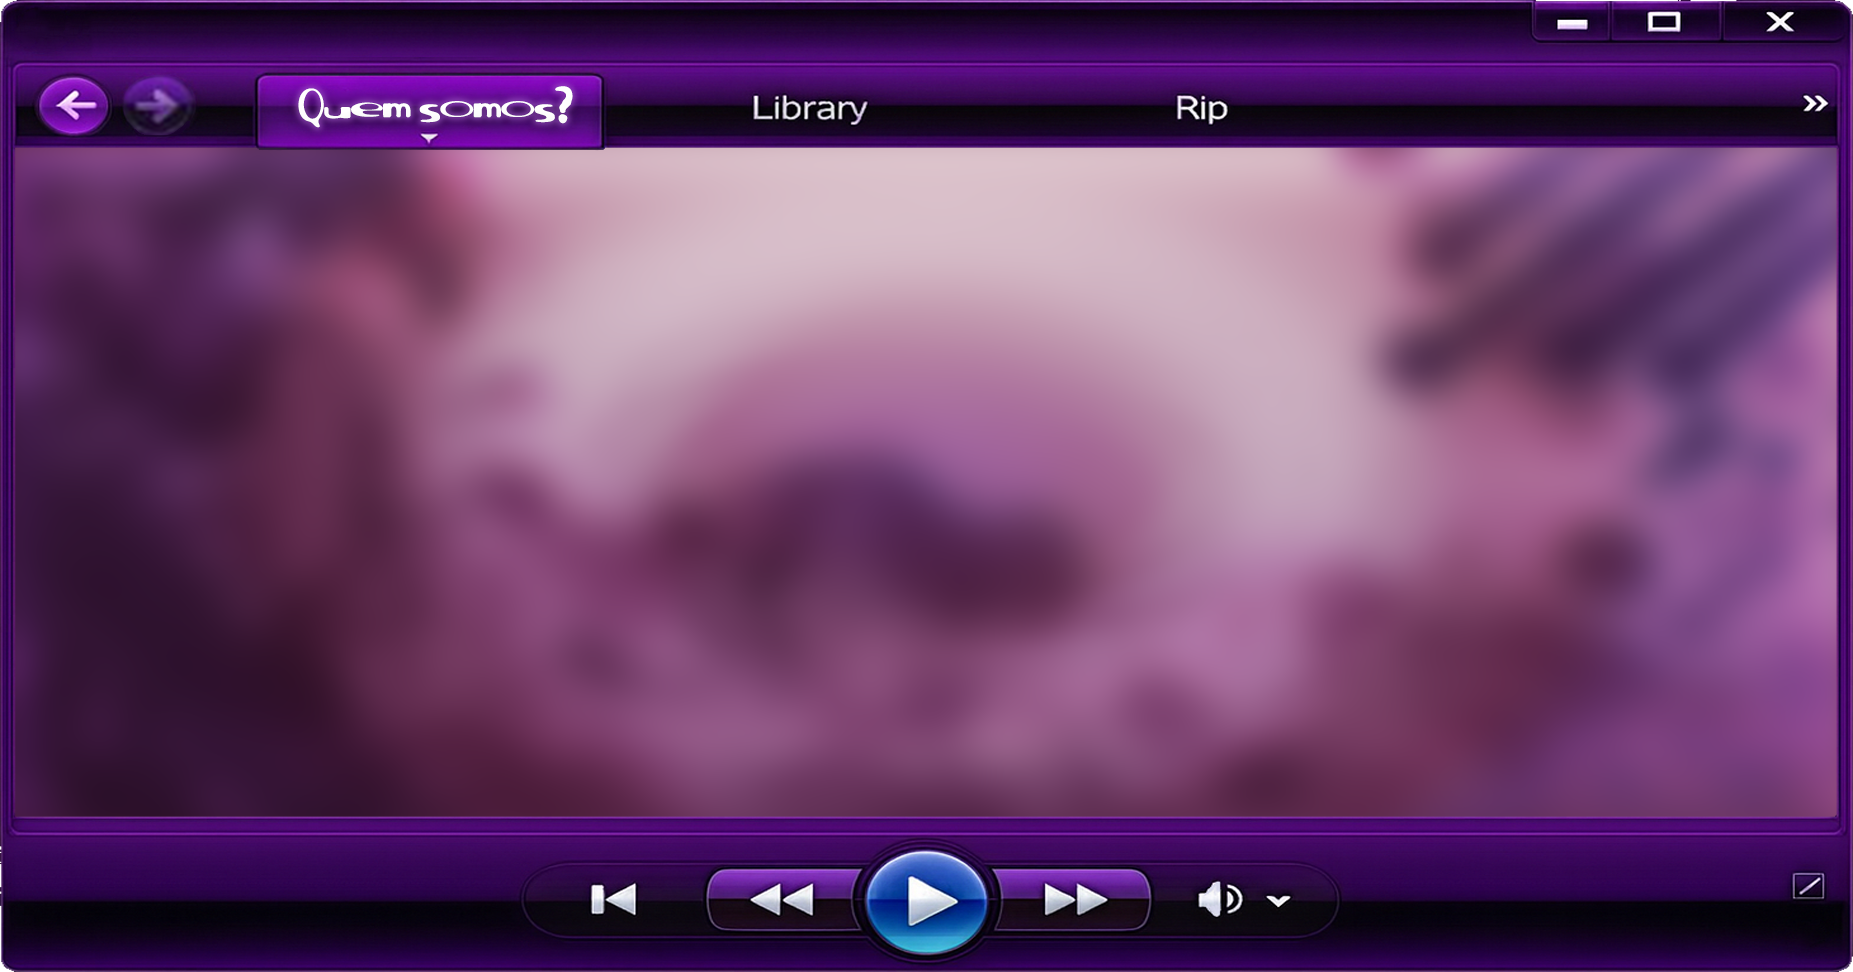
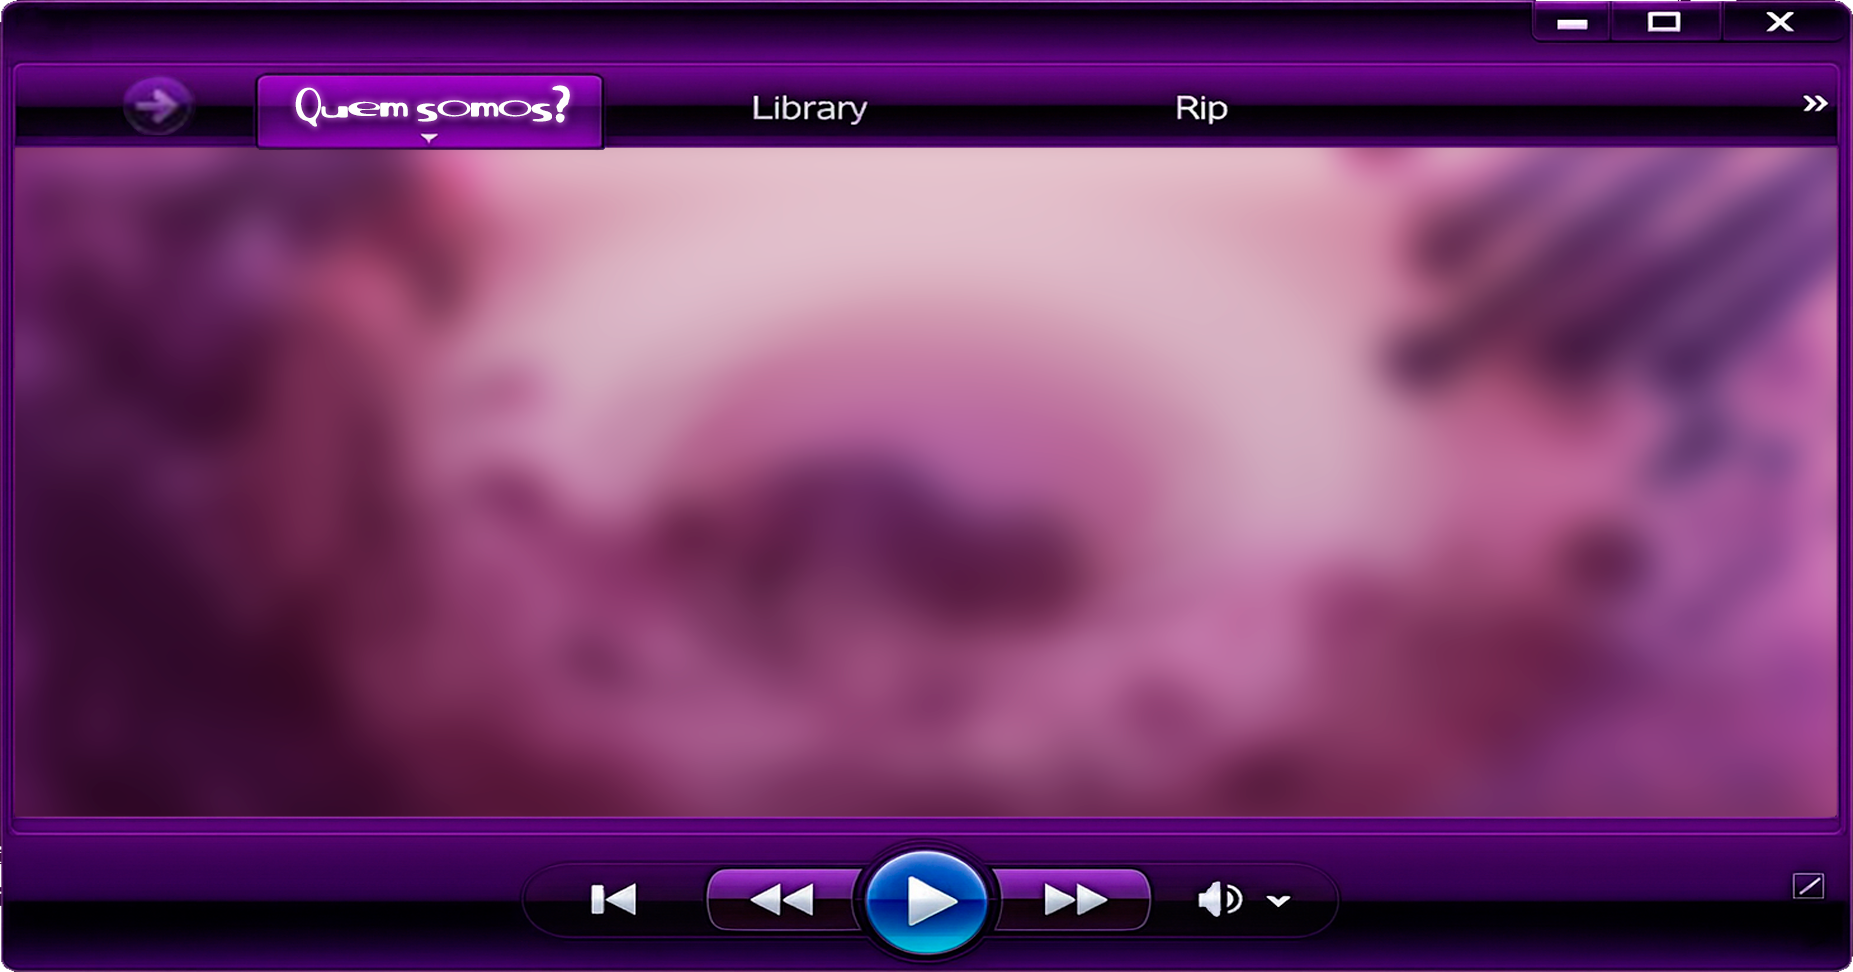
Ajustes no Quem_Somos + Transição com JS

diff --git a/_static/app/page-transition.js b/_static/app/page-transition.js
@@ -1,0 +1,69 @@
+// INICIALIZAÇÃO DO SCRIPT
+window.addEventListener("load", () => {
+  const transition = document.getElementById("page-transition");
+  if (!transition) return;
+
+  // VERIFICAÇÃO DE RECARREGAMENTO (SEM ANIMAÇÃO, MAS MANTÉM FUNCIONALIDADE)
+  const navEntries = performance.getEntriesByType("navigation");
+  const isReload = navEntries.length && navEntries[0].type === "reload";
+
+  if (isReload) {
+    transition.style.transition = "none";
+    transition.style.transform = "translateX(-100%)";
+  }
+
+  // MÓDULO DE ENTRADA (ANIMAÇÃO AO CARREGAR PÁGINA)
+  const direction = sessionStorage.getItem("transitionDirection");
+  sessionStorage.removeItem("transitionDirection");
+
+  if (!isReload) {
+    transition.style.transition = "none";
+
+    if (direction === "right") {
+      transition.style.transform = "translateX(0)";
+      transition.getBoundingClientRect();
+      requestAnimationFrame(() => {
+        transition.style.transition = "transform 0.8s ease-in-out";
+        transition.style.transform = "translateX(-100%)";
+      });
+    } else if (direction === "left") {
+      transition.style.transform = "translateX(0)";
+      transition.getBoundingClientRect();
+      requestAnimationFrame(() => {
+        transition.style.transition = "transform 0.8s ease-in-out";
+        transition.style.transform = "translateX(100%)";
+      });
+    } else {
+      transition.style.transform = "translateX(-100%)";
+    }
+  }
+
+  // FUNÇÃO CENTRAL DE TRANSIÇÃO ENTRE PÁGINAS
+  const handleTransition = (href, from) => {
+    sessionStorage.setItem("transitionDirection", from);
+    transition.style.transition = "none";
+    transition.style.transform = from === "left" ? "translateX(-100%)" : "translateX(100%)";
+    transition.getBoundingClientRect();
+    requestAnimationFrame(() => {
+      transition.style.transition = "transform 0.8s ease-in-out";
+      transition.style.transform = "translateX(0)";
+    });
+    transition.addEventListener("transitionend", () => window.location.href = href, { once: true });
+  };
+
+  // MÓDULO DE NAVEGAÇÃO (LINKS NORMAIS)
+  document.querySelectorAll("a[href]").forEach(link => {
+    link.addEventListener("click", e => {
+      e.preventDefault();
+      handleTransition(link.getAttribute("href"), "left");
+    });
+  });
+
+  // MÓDULO DE BOTÕES DE VOLTAR (TRANSIÇÃO REVERSA)
+  document.querySelectorAll(".btn-voltar").forEach(btn => {
+    btn.addEventListener("click", e => {
+      e.preventDefault();
+      handleTransition(`${window.location.origin}/index.html`, "right");
+    });
+  });
+});

diff --git a/_static/app/page-loader.js b/_static/app/page-loader.js
@@ -1,0 +1,56 @@
+// ==========================================
+// PAGE LOADER + SINCRONIZAÇÃO COM O BLUR
+// ==========================================
+
+window.addEventListener("DOMContentLoaded", () => {
+  const loader = document.getElementById("page-loading");
+  const transition = document.getElementById("page-transition");
+  if (!loader || !transition) return;
+
+  // Evita loader em reloads
+  const navEntries = performance.getEntriesByType("navigation");
+  const isReload = navEntries.length && navEntries[0].type === "reload";
+  if (isReload) {
+    loader.style.display = "none";
+    return;
+  }
+
+  // Adiciona o listener ao blur (quando ele termina de entrar)
+  transition.addEventListener("transitionend", () => {
+    // Somente se o blur estiver visível (ou seja, cobrindo a tela)
+    const computedStyle = window.getComputedStyle(transition);
+    if (computedStyle.transform.includes("matrix(1, 0, 0, 1, 0, 0)")) {
+      // blur 100% na tela → ativa o page loader
+      loader.classList.add("active");
+    }
+  });
+
+  // Quando a página termina de carregar → desativa loader
+  window.addEventListener("load", () => {
+    setTimeout(() => loader.classList.remove("active"), 200);
+  });
+
+  // Intercepta cliques
+  document.querySelectorAll("a[href], .btn-voltar").forEach(link => {
+    link.addEventListener("click", e => {
+      const href = link.getAttribute("href");
+      if (!href || href.startsWith("#")) return;
+
+      e.preventDefault();
+
+      // ativa o blur deslizante
+      transition.style.transition = "transform 0.8s ease-in-out";
+      transition.style.transform = "translateX(0)";
+
+      // o page loader vai entrar automaticamente após o transitionend
+      transition.addEventListener(
+        "transitionend",
+        () => {
+          // troca de página enquanto o blur e o loader estão ativos
+          setTimeout(() => (window.location.href = href), 500);
+        },
+        { once: true }
+      );
+    });
+  });
+});

diff --git a/_static/css/quem_somos.css b/_static/css/quem_somos.css
@@ -5,38 +5,60 @@ body {
 main {
     display: flex;
     justify-content: center;
+    align-items: center;
 }
 
 .media-player-wrapper {
+    position: relative;
     background-image: url('../assets/MediaPlayer_Layer.png');
-    background-size: cover;
-    width: 104vw;
-    height: 104vh;
-    transform: scale(0.89);
-}
-
-#mp-png {
-    width: 100%;
+    background-size: 100% 100%;
+    background-repeat: no-repeat;
+    background-size: contain;
+    background-position: center;
+    width: 92vw;
+    aspect-ratio: 1853 / 972;
     height: auto;
-    object-fit: contain;
-    display: block;
 }
 
-#btn-return {
+.btn-voltar {
     position: absolute;
-    top: 9.7%;
-    left: 1.8%;
-    width: 4.2vw;
+    top: calc(5% + 1.0vw);
+    left: calc(2% + 0.3vw);
+    width: 4%;
     aspect-ratio: 1 / 1;
     background: url('../assets/button-return2.png') center/contain no-repeat;
     border: none;
     background-color: transparent;
     cursor: pointer;
     transition: transform 0.3s ease, filter 0.3s ease;
-    z-index: 10;
+    
+    z-index: 30;
 }
 
-#btn-return:hover {
+.btn-voltar:hover {
     transform: scale(1.05);
     filter: brightness(1.3);
+}
+
+@media (max-width: 700px) {
+    body {
+        background: url('../assets/quem-somos-telamenor.jpg') center/cover no-repeat;
+    }
+
+    .media-player-wrapper {
+        background-image: url('../assets/MediaPlayer_Layer-telamenor.png');
+        position: relative;
+        width: 95vw;
+        aspect-ratio: 1059 / 1483;
+        height: 98vh;
+    }
+
+    .btn-voltar {
+        background-image: url('../assets/button-return2-telamenor.png');
+        position: fixed;
+
+        top: calc(8.5% + 0.01vw);
+        left: calc(7.7% + 0.01vw);
+        width: calc(9% + 0.01vw);
+    }
 }

diff --git a/_static/css/padrao.css b/_static/css/padrao.css
@@ -1,4 +1,3 @@
-/* ===== CONFIG PADRÃO DO FUNDO ===== */
 body {
     margin: 0;
     padding: 0;
@@ -12,16 +11,18 @@ body {
     display: flex;
     flex-direction: column;
     align-items: center;
+
+    position: relative;
+    z-index: 0;
 }
 
 main {
     width: 100%;
     height: 100dvh;
     position: relative;
-    overflow: hidden;
+    overflow: visible;
 }
 
-/* ===== CONFIG PADRÃO DO RODAPÉ ===== */
 .footer {
     font-family: 'Roboto', sans-serif;
     position: absolute;
@@ -30,7 +31,47 @@ main {
     background-color: rgba(0, 0, 0, 0.068);
     color: rgba(255, 255, 255, 0.39);
     text-align: center;
-
     font-size: 0.6vw;
     backdrop-filter: blur(2px);
+
+    z-index: 101;
+}
+
+#page-transition {
+    position: fixed;
+    z-index: 100;
+
+    top: 0;
+    left: 0;
+    width: 100vw;
+    height: 100vh;
+
+    background: rgba(255, 255, 255, 0.08);
+    backdrop-filter: blur(35px);
+    -webkit-backdrop-filter: blur(35px);
+    pointer-events: none;
+    
+    transform: translateX(-100%);
+    transition: transform 0.8s ease-in-out;
+}
+
+#page-transition.active {
+    transform: translateX(0);
+}
+
+#page-loading {
+  position: fixed;
+  inset: 0;
+  z-index: 99;
+  background: rgba(255, 255, 255, 0.15);
+  backdrop-filter: blur(40px);
+  -webkit-backdrop-filter: blur(40px);
+  opacity: 0;
+  pointer-events: none;
+  transition: opacity 0.1s ease-in-out;
+}
+
+#page-loading.active {
+  opacity: 1;
+  pointer-events: all;
 }

diff --git a/_static/css/login.css b/_static/css/login.css
@@ -8,7 +8,7 @@ header {
     top: 6vh;
     left: 2.5vw;
 
-    z-index: 999;
+    z-index: 30;
 }
 
 .btn-voltar {

diff --git a/_static/css/cadastro.css b/_static/css/cadastro.css
@@ -8,7 +8,7 @@ header {
     top: 6vh;
     left: 3vw;
 
-    z-index: 999;
+    z-index: 30;
 }
 
 .btn-voltar {

diff --git a/users/template/cadastro.php b/users/template/cadastro.php
@@ -11,8 +11,11 @@
     <title>Cadastro</title>
 </head>
 <body>
+    <div id="page-loading" class="active"></div>
+    <div id="page-transition"></div>
+
     <header>
-        <button onclick="window.location.href='../../index.html'" class="btn-voltar"><img src="../../_static/assets/button-return.png" alt="Voltar"></button>
+        <button class="btn-voltar"><img src="../../_static/assets/button-return.png" alt="Voltar"></button>
     </header>
 
     <main>
@@ -33,10 +36,14 @@
 			</div>
 			<button type="submit" class="btn-enviar"></button>
         </form>
+
     </main>
 
     <footer class="footer">
         <p>© 2025 AUDIO·ANG3L LIBRARY·01 — CRIADO POR JOÃO PEDRO GALVERO APENAS PARA USO EDUCATIVO — AAL01</p>
     </footer>
+    
+    <script src="../../_static/app/page-transition.js"></script>
+    <script src="../../_static/app/page-loader.js"></script>
 </body>
 </html>

diff --git a/users/template/login.php b/users/template/login.php
@@ -11,8 +11,11 @@
     <title>Login</title>
 </head>
 <body>
+    <div id="page-loading" class="active"></div>
+    <div id="page-transition"></div>
+
     <header>
-        <button onclick="window.location.href='../../index.html'" class="btn-voltar"><img src="../../_static/assets/button-return.png" alt="Voltar"></button>
+        <button class="btn-voltar"><img src="../../_static/assets/button-return.png" alt="Voltar"></button>
     </header>
 
     <main>
@@ -33,5 +36,8 @@
     <footer class="footer">
         <p>© 2025 AUDIO·ANG3L LIBRARY·01 — CRIADO POR JOÃO PEDRO GALVERO APENAS PARA USO EDUCATIVO — AAL01</p>
     </footer>
+
+    <script src="../../_static/app/page-transition.js"></script>
+    <script src="../../_static/app/page-loader.js"></script>
 </body>
 </html>

diff --git a/quem_somos.php b/quem_somos.php
@@ -10,16 +10,24 @@
 
     <title>Quem Somos?</title>
 </head>
-<body class="center-content">
+<body>
+    <div id="page-loading" class="active"></div>
+    <div id="page-transition"></div>
+
     <header>
 
     </header>
 
     <main>
         <div class="media-player-wrapper">
-            <button id="btn-return"></button>
+            <button class="btn-voltar"></button>
         </div>
     </main>
+    <footer class="footer">
+        <p>© 2025 AUDIO·ANG3L LIBRARY·01 — CRIADO POR JOÃO PEDRO GALVERO APENAS PARA USO EDUCATIVO — AAL01</p>
+    </footer>
     
+    <script src="_static/app/page-transition.js"></script>
+    <script src="_static/app/page-loader.js"></script>
 </body>
 </html>

diff --git a/index.php b/index.php
@@ -11,6 +11,9 @@
     <title>AAL01</title>
 </head>
 <body>
+    <div id="page-loading" class="active"></div>
+    <div id="page-transition"></div>
+
     <header>
 
     </header>
@@ -29,5 +32,8 @@
     <footer class="footer">
         <p>© 2025 AUDIO·ANG3L LIBRARY·01 — CRIADO POR JOÃO PEDRO GALVERO APENAS PARA USO EDUCATIVO — AAL01</p>
     </footer>
+    
+    <script src="_static/app/page-transition.js"></script>
+    <script src="_static/app/page-loader.js"></script>
 </body>
 </html>
